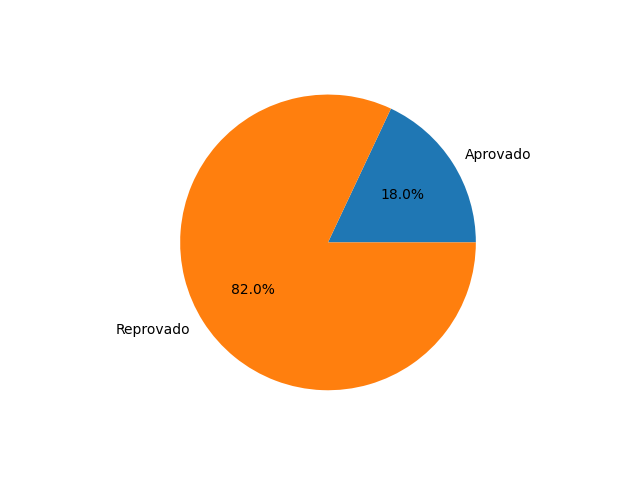
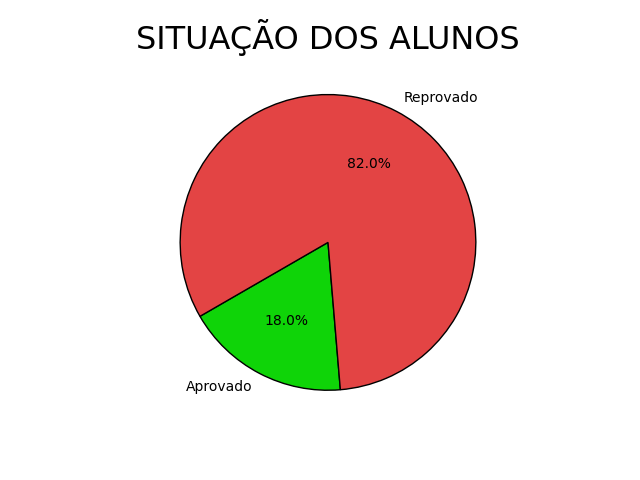
done

Changed region(s): [[0.2812, 0.1875, 0.8438, 0.8125], [0.2188, 0.0312, 0.8125, 0.125], [0.1875, 0.6562, 0.2812, 0.7188]]

diff --git a/main.py b/main.py
@@ -28,7 +28,8 @@ def approval_chart():
     approved = list(TABLE['aprovado']).count("Sim")
     failed = list(TABLE['aprovado']).count("Não")
     
-    plt.pie((approved, failed), labels=('Aprovado', 'Reprovado'), autopct='%1.1f%%')
+    plt.pie((approved, failed), labels=('Aprovado', 'Reprovado'), colors=('#0fd408', '#e34444'), autopct='%1.1f%%', wedgeprops={'edgecolor': 'black', 'linewidth': 1}, startangle=210)
+    plt.title("SITUAÇÃO DOS ALUNOS", fontsize=23)
     plt.savefig('approval_chart.png')
     plt.clf()
     
@@ -36,7 +37,8 @@ def sex_chart():
     masculine = list(TABLE['sexo']).count("Masculino")
     feminine = list(TABLE['sexo']).count("Feminino")
     
-    plt.pie((masculine, feminine), labels=('Masculino', 'Feminino'), autopct='%1.1f%%')
+    plt.pie((masculine, feminine), labels=('Masculino', 'Feminino'), colors=('skyblue', 'pink'), autopct='%1.1f%%', wedgeprops={'edgecolor': 'black', 'linewidth': 1})
+    plt.title("DEMOGRAFIA DOS ALUNOS", fontsize=23)
     plt.savefig('sex_chart.png')
     plt.clf()
 
@@ -62,6 +64,8 @@ def top_grades():
            
         plt.text(value+0.05, bar.get_y() + 0.3, f'{value:.1f}', va='center', ha='left')
     
+    plt.title("RANKING DE NOTAS" , fontsize=23)
+    
     # Legend
     plot[99].set_label("Top 5")
     plt.legend(fontsize=25)
@@ -69,7 +73,6 @@ def top_grades():
     # Finish
     plt.savefig('grade_ranking.png')
     plt.clf()
-    
     
 def top_attendance():
     ids = TABLE['id_aluno']
@@ -93,7 +96,7 @@ def top_attendance():
            
         plt.text(value+0.06, bar.get_y() + 0.3, f'{value:.1f}%', va='center', ha='left')
     
-    
+    plt.title("RANKING DE PRESENÇA" , fontsize=23)
     
     # Legend
     plot[99].set_label("Top 5")
